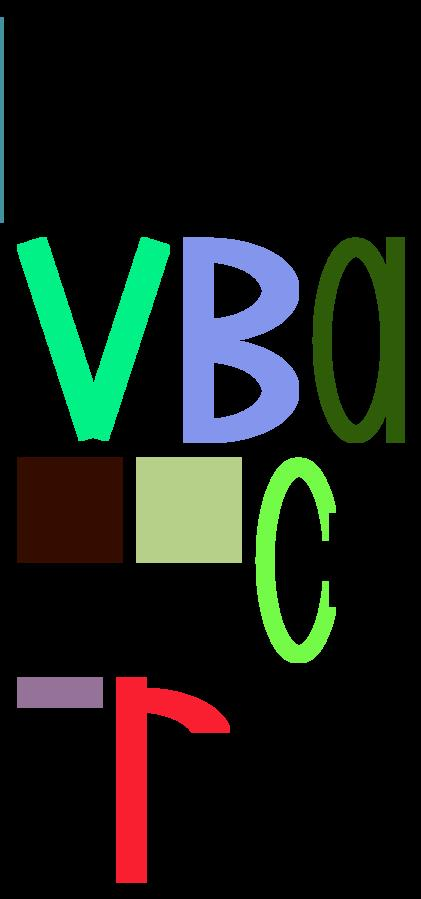
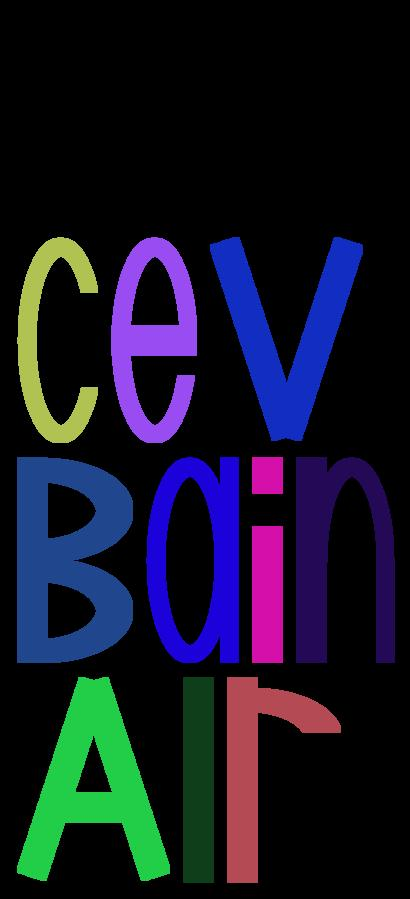
letters

diff --git a/TP1/src/tp1/LetterFactory.java b/TP1/src/tp1/LetterFactory.java
@@ -10,8 +10,11 @@ public final class LetterFactory {
 
     // TODO
     public static BaseShape create_e() {
-        return new BaseShape().add(new Rectangle(stripeThickness,maxHeight)
-                .translate(new Point2d(-halfMaxWidth,0.0)));
+        return new BaseShape().add(new Ellipse(maxWidth,maxHeight))
+                        .remove(new Ellipse(maxWidth - stripeThickness, maxHeight - stripeThickness))
+                        .add(new Rectangle(maxWidth, stripeThickness))
+                .remove((new Rectangle(2 * stripeThickness, stripeThickness))
+                                .translate(new Point2d(2 * stripeThickness, stripeThickness)));
     }
 
     // TODO
@@ -25,27 +28,33 @@ public final class LetterFactory {
     // TODO
     public static BaseShape create_C() {
         return new BaseShape().add(new Ellipse(maxWidth, maxHeight))
-                                .remove(new Ellipse(maxWidth-stripeThickness, maxHeight - stripeThickness))
-                                .remove(new Rectangle(stripeThickness, halfMaxHeight)
-                                                .translate(new Point2d(halfMaxWidth, 0.0)));
+                                .remove(new Ellipse(maxWidth - stripeThickness, maxHeight - stripeThickness))
+                                .remove((new Rectangle(halfMaxWidth, halfMaxHeight)
+                                               .translate(new Point2d(stripeThickness, 0.0))));
     }
 
     // TODO
     public static BaseShape create_l() {
 
-        return new Rectangle(maxWidth, stripeThickness);
+        return new Rectangle(stripeThickness, maxHeight);
     }
 
     // TODO
     public static BaseShape create_i() {
-        return new Square(100.0);
+        return new BaseShape().add(new Rectangle(stripeThickness, maxHeight))
+                .remove((new Rectangle(stripeThickness, stripeThickness + halfStripeThickness)).translate(new Point2d(0.0, - 2 * stripeThickness)));
     }
 
     // TODO
     public static BaseShape create_A() {
-        return new BaseShape().add(new Ellipse(maxWidth, maxHeight)).
-                remove(new Ellipse(maxWidth-stripeThickness, maxHeight - stripeThickness)).
-                remove((new Rectangle(stripeThickness, halfMaxHeight)).translate(new Point2d(halfMaxWidth, 0.0)));
+        return new BaseShape().add(new Rectangle(maxHeight,stripeThickness)
+                        .translate(new Point2d(-halfMaxHeight,0.0)))
+                .rotate(-Math.PI/5)
+                .add( new Rectangle(maxHeight,stripeThickness)
+                        .translate(new Point2d(-halfMaxHeight,0.0)))
+                .rotate(-Math.PI/2.5)
+                .add((new Rectangle(maxWidth, stripeThickness))
+                            .translate(new Point2d(0.0, halfMaxHeight + stripeThickness)));
     }
 
     // TODO
@@ -61,7 +70,15 @@ public final class LetterFactory {
 
     // TODO
     public static BaseShape create_n() {
-        return new Square(100.0);
+
+        return new BaseShape().add(new Ellipse(maxWidth, maxHeight))
+                                    .remove(new Ellipse(maxWidth - stripeThickness, maxHeight - stripeThickness))
+                .remove((new Rectangle(maxWidth, halfMaxHeight))
+                            .translate(new Point2d(0.0, halfMaxHeight / 2.0)))
+                .add((new Rectangle(stripeThickness, maxHeight))
+                            .translate(new Point2d(-halfMaxWidth, 0.0)))
+                .add((new Rectangle(halfStripeThickness, halfMaxHeight))
+                        .translate(new Point2d(halfMaxWidth - halfStripeThickness/2.0,  2 * stripeThickness)));
     }
 
     // TODO

diff --git a/TP1/src/tp1/Main.java b/TP1/src/tp1/Main.java
@@ -10,15 +10,15 @@ public class Main {
     public static void main(String[] args) throws Exception {
         System.out.println("Bienvenue au premier labo de INF2010!");
         LetterPlacer letterPlacer = new LetterPlacer();
-        letterPlacer.placeNext('C');
+        letterPlacer.placeNextln('C');
         letterPlacer.placeNext('e');
-        letterPlacer.placeNextln('V');
-        letterPlacer.placeNext('B');
+        letterPlacer.placeNext('V');
+        letterPlacer.placeNextln('B');
         letterPlacer.placeNext('a');
-        letterPlacer.placeNextln('i');
+        letterPlacer.placeNext('i');
         letterPlacer.placeNext('n');
-        letterPlacer.placeNext('A');
-        letterPlacer.placeNextln('l');
+        letterPlacer.placeNextln('A');
+        letterPlacer.placeNext('l');
         letterPlacer.placeNext('r');
         /*letterPlacer.placeNext('l');
         letterPlacer.placeNext('a');
